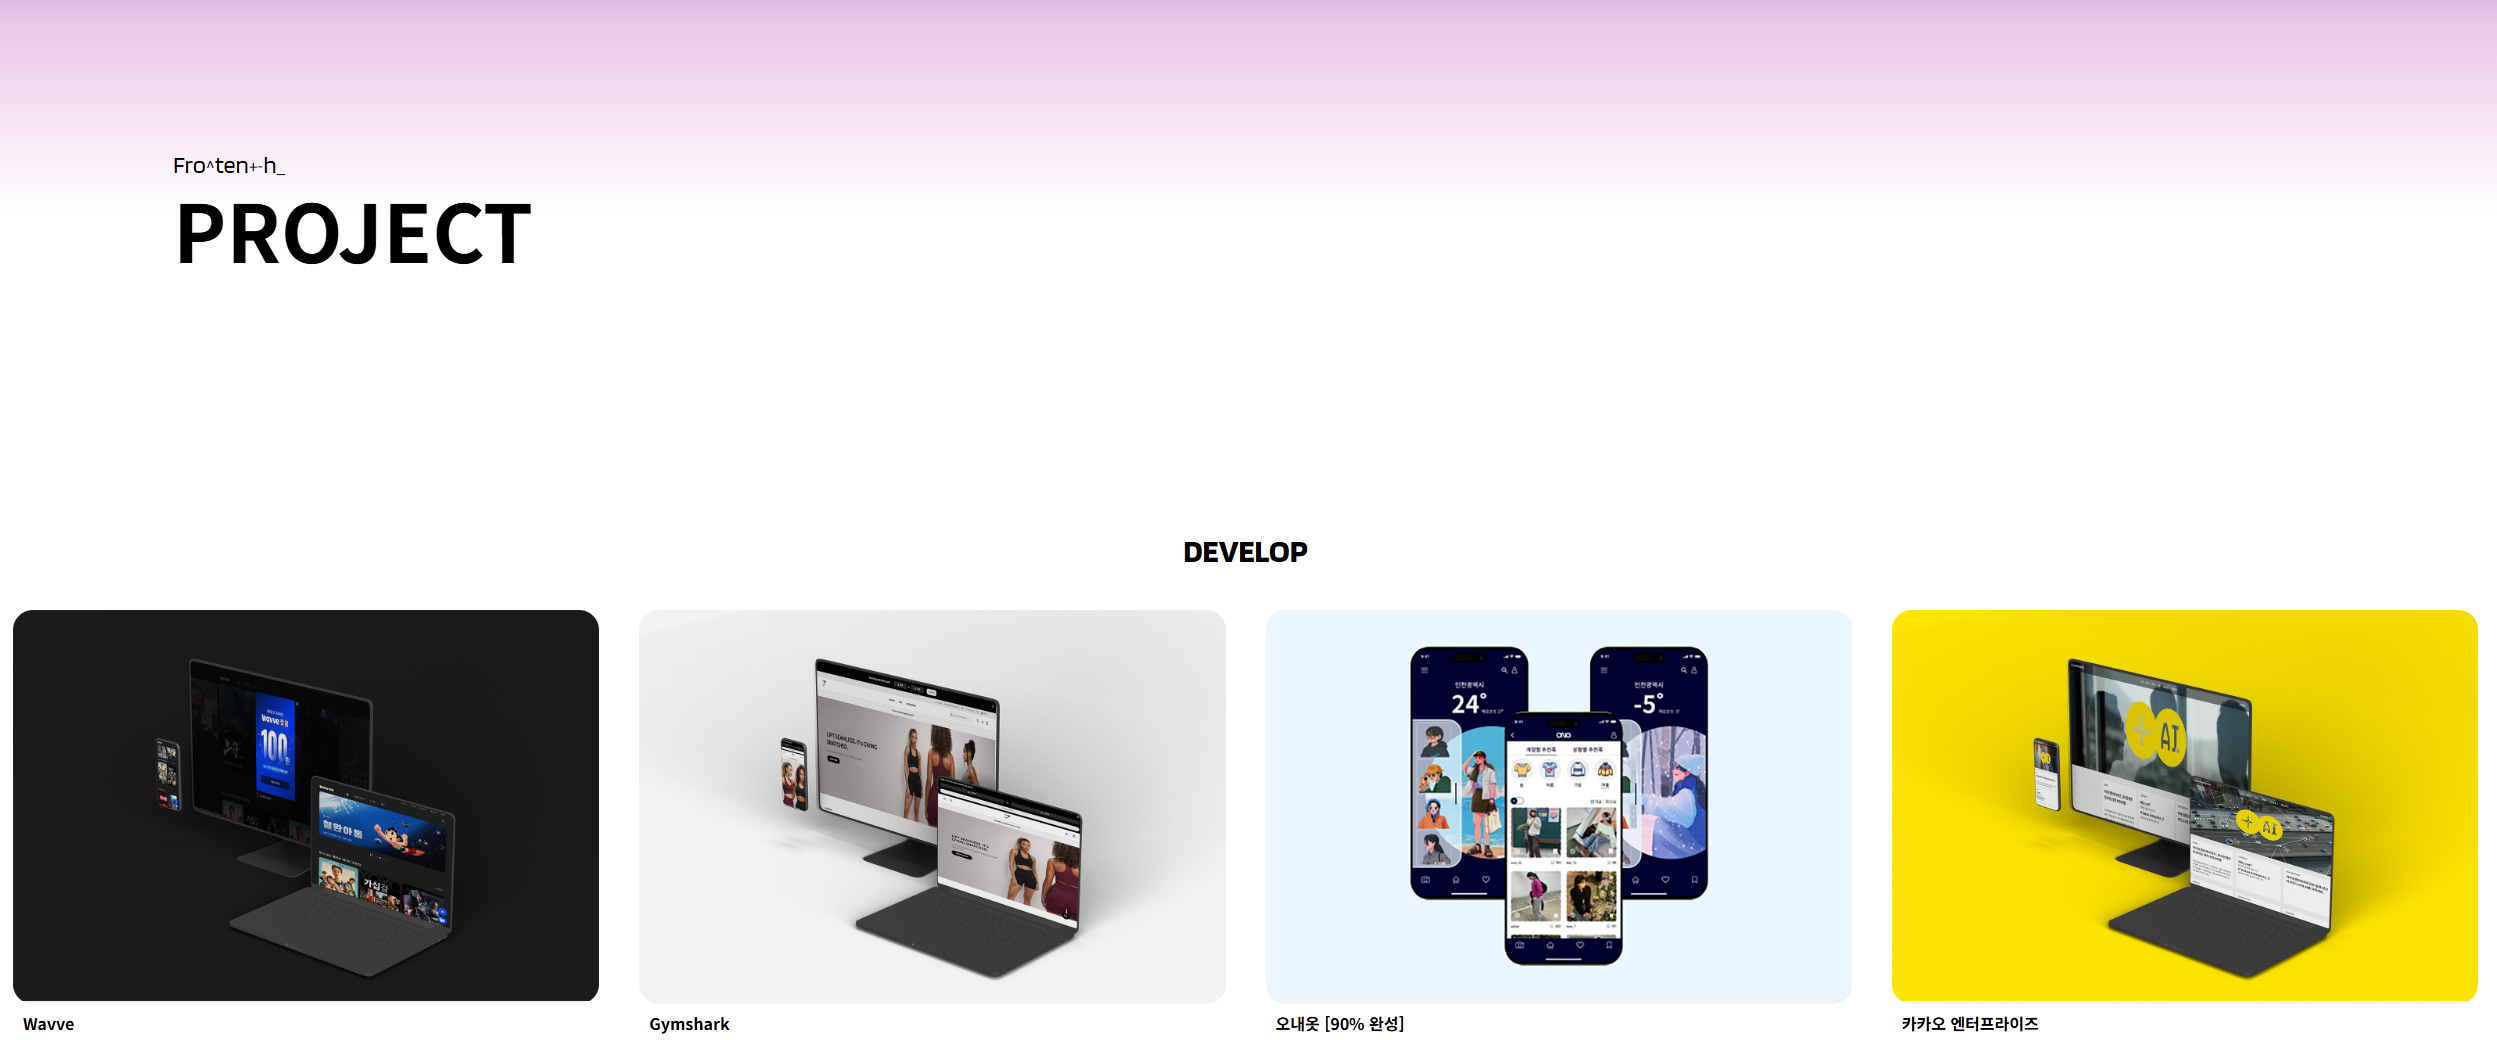
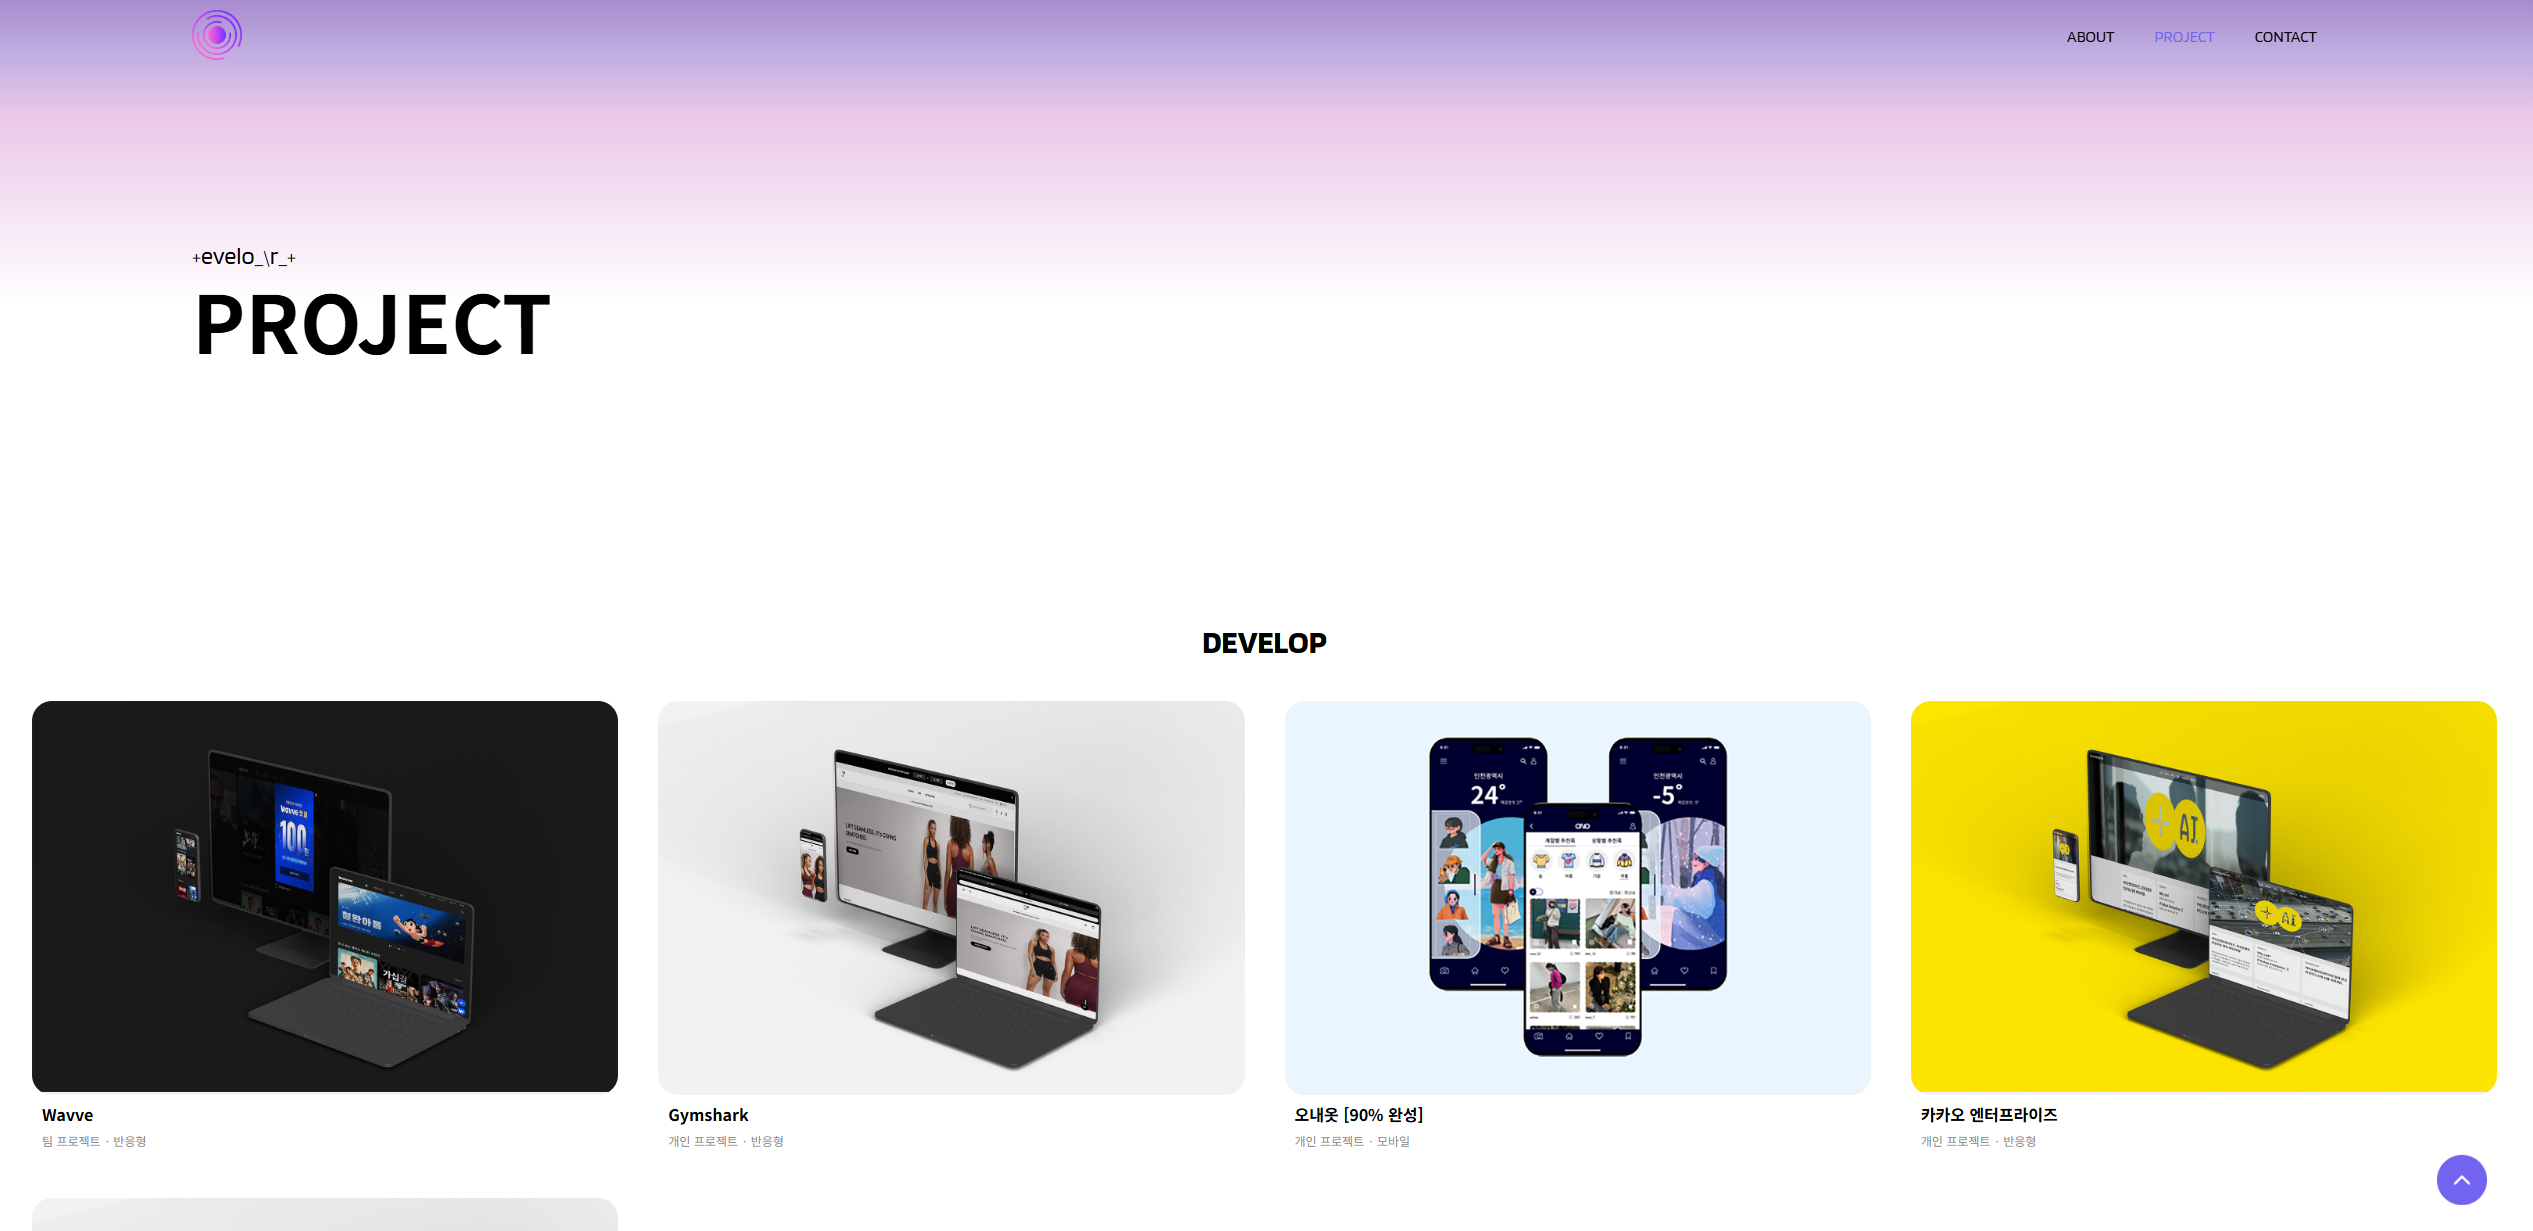
2025 프론트엔드 포트폴리오

diff --git a/src/data/projectData.ts b/src/data/projectData.ts
@@ -3,10 +3,12 @@ export interface Project {
     title: string;
     tech: string[];
     headCount: "개인 프로젝트" | "팀 프로젝트";
+    color: string; 
     thumbnail: string; 
     mock1: string; 
     mock2: string; 
     mock3: string; 
+    mock4: string; 
     description: string;
     work: string;
     period: string;
@@ -21,10 +23,12 @@ export const PROJECTS: Project[] = [
         title: "Tourch (투치)",
         tech: ["Next.js", "TypeScript", "React", "Firebase", "CSS3"],
         headCount: "개인 프로젝트",
-        thumbnail: '/images/projects/tourch/tourch.png',
+        color: 'linear-gradient(135deg, #FF0055 0%, #FF5A5F 100%)',
+        thumbnail: '/images/projects/tourch/thumbnail.png',
         mock1: '/images/projects/tourch/tourch1.png',
         mock2: '/images/projects/tourch/tourch2.png',
         mock3: '/images/projects/tourch/tourch3.png',
+        mock4: '/images/projects/tourch/tourch4.png',
         description: "공공데이터 API를 활용한 전국 실시간 관광 정보 큐레이션 서비스입니다. Next.js의 서버 컴포넌트를 활용해 초기 로딩 속도를 최적화했으며, Firebase를 연동하여 소셜 로그인 및 사용자별 찜하기 기능을 구현했습니다. 추가로 모든 페이지는 반응형으로 제작되었습니다.",
         work: "- API 최적화 및 고도화: 공공데이터(Tour API 4.0) 연동 및 Intersection Observer 기반의 무한 스크롤(또는 '더보기')을 구현하여 대량의 데이터를 효율적으로 렌더링.\n- 데이터 필터링 시스템: Query String을 활용한 카테고리별 동적 필터링 기능을 구현하여 사용자가 원하는 정보를 직관적으로 탐색 가능하게 설계.\n- 실시간 데이터 연동: Firebase Authentication 및 Firestore를 활용해 실시간 인증 상태에 따른 개인별 즐겨찾기(Wishlist) 기능 구현.\n- 사용자 친화적 UI: 로고 비율 유지(height: auto) 처리, 검색창 재사용성 확보 등 디테일한 CSS 처리를 통해 완성도 높은 UX 제공",
         period: "2025.10 - 2025.12",
@@ -37,10 +41,12 @@ export const PROJECTS: Project[] = [
         title: "2025 PORTFOLIO",
         tech: ["Next.js", "TypeScript", "React", "CSS3"],
         headCount: "개인 프로젝트",
-        thumbnail: '/images/projects/2025/2025.png',
+        color: 'linear-gradient(135deg, #171717 0%, #333333 100%)',
+        thumbnail: '/images/projects/2025/thumbnail.png',
         mock1: '/images/projects/2025/20251.png',
         mock2: '/images/projects/2025/20252.png',
         mock3: '/images/projects/2025/20253.png',
+        mock4: '/images/projects/2025/20254.png',
         description: "Next.js App Router 기반의 개인 포트폴리오 웹사이트입니다. TypeScript를 도입해 개발 생산성과 타입 안정성을 확보했으며, Framer Motion을 활용하여 사용자 친화적인 페이지 전환 애니메이션을 구현했습니다. 모든 페이지는 반응형으로 제작되었습니다.",
         work: "프론트엔드 전반: Next.js (App Router) 구조 설계 및 컴포넌트 개발 (전체 4개 페이지 및 10개 이상의 재사용 컴포넌트).\n- 사용자 경험(UX) 개선: Framer Motion을 이용한 부드러운 페이지 전환 애니메이션 및 Swiper를 활용한 프로젝트 슬라이드 구현.\n- 반응형 디자인: 미디어 쿼리 및 CSS Flex/Grid를 활용한 모든 페이지(PC, Tablet, Mobile) 반응형 구현 완료",
         period: "2025.10 - 2025.12",
@@ -53,10 +59,12 @@ export const PROJECTS: Project[] = [
         title: "Wavve",
         tech: ["HTML5", "CSS3", "JavaScript", "PHP", "API"],
         headCount: "팀 프로젝트",
-        thumbnail: '/images/projects/wavve/wavve.png',
+        color: 'linear-gradient(135deg, #0051FF 0%, #00B2FF 100%)',
+        thumbnail: '/images/projects/wavve/thumbnail.png',
         mock1: '/images/projects/wavve/wavve1.png',
         mock2: '/images/projects/wavve/wavve2.png',
         mock3: '/images/projects/wavve/wavve3.png',
+        mock4: '/images/projects/wavve/wavve4.png',
         description: "HTML, CSS, JavaScript, JQuery를 활용하여 OTT 서비스 'Wavve'의 전체 40여 개 페이지를 퍼블리싱 클론 프로젝트입니다. 원본 사이트에 없던 반응형 웹 디자인(Desktop, Tablet, Mobile)을 추가 구현하고, OpenAPI 기반 챗봇 기능을 도입하여 사용자 경험을 확장했습니다. 팀 프로젝트 내에서 퍼블리싱과 기능 구현, 기획 문서 작성에 기여했습니다.",
         work: "- 총 40개 페이지 중 메인 페이지 1개와 서브 페이지 15개 (총 16개 페이지) 퍼블리싱 및 기능 구현 담당\n- 전 페이지 반응형 웹 (Desktop, Tablet, Mobile) 디자인 구현 완료\n- OpenAPI를 활용하여 서비스 통합형 챗봇 기능 구현\n- 프로젝트 시작 단계의 기획 및 디자인 피그마 기반 PPT 문서 제작 담당",
         period: "2024.02 - 2024.03",
@@ -69,10 +77,12 @@ export const PROJECTS: Project[] = [
         title: "Gymshark",
         tech: ["HTML5", "CSS3", "JavaScript", "API"],
         headCount: "개인 프로젝트",
-        thumbnail: '/images/projects/gymshark/gymshark.webp',
+        color: 'linear-gradient(135deg, #2C3E50 0%, #000000 100%)',
+        thumbnail: '/images/projects/gymshark/thumbnail.png',
         mock1: '/images/projects/gymshark/gymshark1.png',
         mock2: '/images/projects/gymshark/gymshark2.png',
         mock3: '/images/projects/gymshark/gymshark3.png',
+        mock4: '/images/projects/gymshark/gymshark4.png',
         description: "글로벌 스포츠웨어 브랜드 'Gymshark' 웹사이트를 HTML, CSS, JavaScript를 활용하여 클론 퍼블리싱한 개인 프로젝트입니다. 기존 사이트의 디자인을 충실히 구현함과 동시에, Desktop, Tablet, Mobile 환경에 최적화된 심플하고 깔끔한 반응형 웹 레이아웃을 직접 재구성하여 적용했습니다. 또한, OpenAPI 기반의 챗봇 기능을 추가하여 기능을 확장했습니다.",
         work: "- 메인 페이지 1개와 서브 페이지 5개 (총 6개 페이지) 퍼블리싱 및 기능 구현 완료\n- Desktop, Tablet, Mobile에 최적화된 반응형 웹 디자인 재구성 및 적용\n- OpenAPI를 활용하여 서비스 통합형 챗봇 기능 구현",
         period: "2024.01 - 2024.02",
@@ -85,10 +95,12 @@ export const PROJECTS: Project[] = [
         title: "2024 PORTFOLIO",
         tech: ["HTML5", "CSS3", "JavaScript"],
         headCount: "개인 프로젝트",
-        thumbnail: '/images/projects/2024/2024.png',
+        color: 'linear-gradient(135deg, #E0C3FC 0%, #8EC5FC 100%)',
+        thumbnail: '/images/projects/2024/thumbnail.png',
         mock1: '/images/projects/2024/20241.png',
         mock2: '/images/projects/2024/20242.png',
         mock3: '/images/projects/2024/20243.png',
+        mock4: '/images/projects/2024/20244.png',
         description: "퍼블리싱 기본기와 정체성을 담아낸 개인 포트폴리오 웹사이트입니다. 라이브러리나 프레임워크의 도움 없이 순수 HTML, CSS, JavaScript만으로 제작하여 마크업 구조 설계 능력과 스타일링 역량을 증명하는 데 집중했습니다. 사용자 인터랙션을 고려한 UI 구성과 레이아웃 배치에 신경을 쓴 프로젝트입니다.",
         work: "- 웹 퍼블리싱 가이드 준수 및 전체 페이지 마크업 구현\n- JavaScript를 활용한 스크롤 애니메이션 등 인터랙션 요소 구현\n- 프로젝트 컨셉 기획 및 디자인 소스 제작 총괄",
         period: "2024.02 - 2024.03",

diff --git a/src/app/project/[id]/ProjectDetailClient.tsx b/src/app/project/[id]/ProjectDetailClient.tsx
@@ -46,10 +46,10 @@ export default function ProjectDetailClient({ project }: ProjectDetailClientProp
 
     const { 
         title, 
-        thumbnail, 
         mock1, 
         mock2, 
         mock3, 
+        mock4, 
         tech,
         description, 
         work, 
@@ -59,7 +59,7 @@ export default function ProjectDetailClient({ project }: ProjectDetailClientProp
         figmaLink, 
         resultLink 
     } = project;
-    const images = [thumbnail, mock1, mock2, mock3].filter(img => img);
+    const images = [mock1, mock2, mock3, mock4].filter(img => img);
 
     const techStacks = useMemo(() => {
         const allStacksMap = STACKS.reduce((acc, category: StackCategory) => {

diff --git a/src/app/project/page.module.css b/src/app/project/page.module.css
@@ -43,12 +43,21 @@
     height: 200px;
     overflow: hidden;
     border-radius: 1rem;
+    display: flex;
+    justify-content: center;
+    align-items: center;
+    transition: transform 0.3s ease;
 }
 .projectImage img {
-    transition: 0.5s;
-    width: 100%;
-    height: 100%;
-    object-fit: cover;
+    width: 85%;
+    height: auto;
+    object-fit: contain;
+    filter: drop-shadow(0 20px 40px rgba(0, 0, 0, 0.3));
+    transition: 0.5s ease;
+}
+.projectImage:hover img {
+    transform: scale(1.05) translateY(-5px);
+    filter: drop-shadow(0 30px 60px rgba(0, 0, 0, 0.5));
 }
 .projectText {
     display: flex;

diff --git a/src/app/page.module.css b/src/app/page.module.css
@@ -251,10 +251,22 @@
     width: 50%;
     border-radius: 10px;
     overflow: hidden;
+    border-radius: 1rem;
+    display: flex;
+    justify-content: center;
+    align-items: center;
+    transition: transform 0.3s ease;
 }
 .projectImage img {
-    width: 100%;
-    object-fit: cover;
+    width: 85%;
+    height: auto;
+    object-fit: contain;
+    filter: drop-shadow(0 20px 40px rgba(0, 0, 0, 0.3));
+    transition: 0.5s ease;
+}
+.projectImage:hover img {
+    transform: scale(1.05) translateY(-5px);
+    filter: drop-shadow(0 30px 60px rgba(0, 0, 0, 0.5));
 }
 .projectContent {
     display: flex;

diff --git a/src/app/page.tsx b/src/app/page.tsx
@@ -231,7 +231,7 @@ export default function Home() {
                                     href={`/project/${project.id}`} 
                                     className={styles.projectCard}
                                 >
-                                    <div className={styles.projectImage}>
+                                    <div className={styles.projectImage} style={{ background: project.color }}>
                                         <Image 
                                             src={project.thumbnail} 
                                             alt={project.title} 

diff --git a/src/app/project/page.tsx b/src/app/project/page.tsx
@@ -41,7 +41,7 @@ export default function Project() {
                                 href={`/project/${project.id}`} 
                                 className={styles.projectLink}
                             >
-                                <div className={styles.projectImage}>
+                                <div className={styles.projectImage} style={{ background: project.color }}>
                                     <Image 
                                         src={project.thumbnail}
                                         alt={`${project.title} 썸네일`} 
